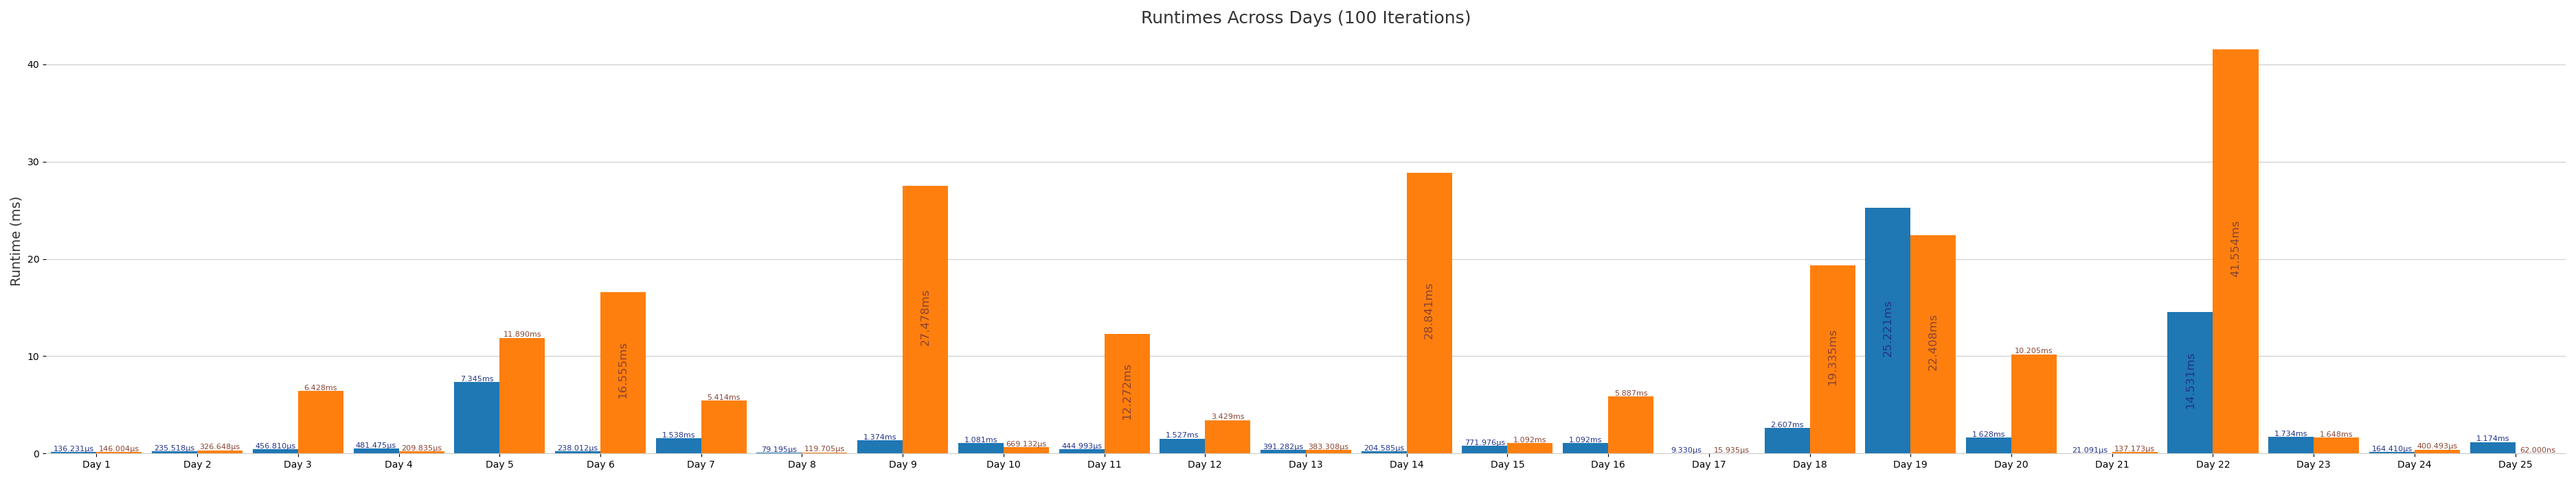
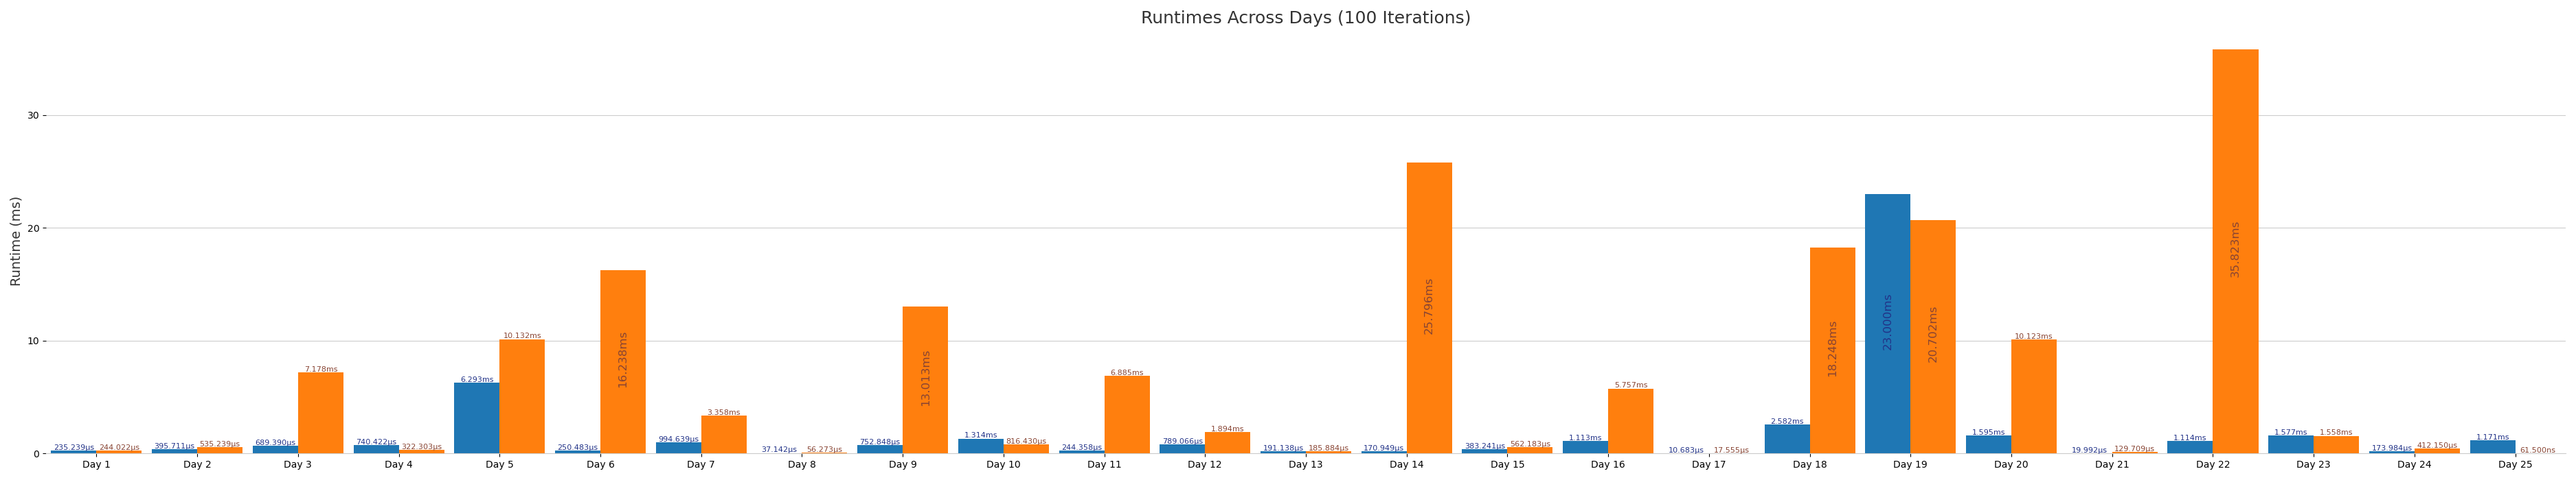
Day 22 🚀

diff --git a/day22/src/main.rs b/day22/src/main.rs
@@ -1,3 +1,4 @@
+use rayon::prelude::*;
 use utils::test_solutions;
 
 fn main() {
@@ -9,120 +10,95 @@ fn main() {
 /// Parses and turns the given input into a vector of numbers
 fn get_numbers(input: &str) -> Vec<u32> {
     input
-        .split("\n")
+        .lines()
         .map(|s| s.parse::<u32>().unwrap())
         .collect::<Vec<u32>>()
 }
 
-/// Calculates the sequence of numbers while putting the difference sequence of 4 into the cache...
-/// Annoying day
-fn cache_sequence(
-    mut num: u32,
-    input_idx: usize,
-    input_len: usize,
-    n: usize,
-    prev_four: &mut [i32; 4],
-    bool_cache: &mut [bool; 130320],
-    number_cache: &mut [u32; 130320],
-    highest_score: &mut u32,
-) {
-    let prev = num % 10;
+fn get_next(num: u32) -> u32 {
+    let mut num = num;
     num ^= num << 6;
     num &= 0xffffff;
     num ^= num >> 5;
     num ^= num << 11;
     num &= 0xffffff;
-    let secret = num % 10;
+    num
+}
 
-    prev_four[3] = prev_four[2];
-    prev_four[2] = prev_four[1];
-    prev_four[1] = prev_four[0];
-    prev_four[0] = secret as i32 - prev as i32;
+/// Calculates the sequence of numbers while putting the difference sequence of 4 into the cache...
+/// Annoying day
+fn cache_sequence(
+    bool_cache: &mut [bool; 130321],
+    number_cache: &mut [u32; 130321],
+    num: u32,
+    highest_number: &mut u32,
+) {
+    let num_0 = num; // 123456
+    let num_1 = get_next(num_0); // 15887950
+    let num_2 = get_next(num_1); // 16495136
+    let mut prev = get_next(num_2); // 527345
 
-    if 2000 - n >= 4 {
-        // Use base19 to base10 conversation to get the hash id (18, 18, 18, 18) -> 130320
-        let hash_id: usize = (prev_four[0] + 9) as usize * 19 * 19 * 19
-            + (prev_four[1] + 9) as usize * 19 * 19
-            + (prev_four[2] + 9) as usize * 19
-            + (prev_four[3] + 9) as usize;
+    let mut diff_0 = 9 + num_1 % 10 - num_0 % 10; // -3 + 9
+    let mut diff_1 = 9 + num_2 % 10 - num_1 % 10; // 6 + 9
+    let mut diff_2 = 9 + prev % 10 - num_2 % 10; // -1 + 9
+
+    for _ in 3..2000 {
+        let next = get_next(prev);
+        let secret = next % 10;
+        let diff_3 = 9 + secret - prev % 10;
+        prev = next;
+
+        let hash_id: usize = diff_0 as usize * 19 * 19 * 19
+            + diff_1 as usize * 19 * 19
+            + diff_2 as usize * 19
+            + diff_3 as usize;
+
+        diff_0 = diff_1;
+        diff_1 = diff_2;
+        diff_2 = diff_3;
 
         // If the hash id is not already in the current input cache, add it
-        if !bool_cache[hash_id] {
-            bool_cache[hash_id] = true;
+        if bool_cache[hash_id] {
+            continue;
+        }
+        bool_cache[hash_id] = true;
+        number_cache[hash_id] += secret;
 
-            if secret != 0 {
-                let cached_value = &mut number_cache[hash_id];
-                if *cached_value < u32::MAX {
-                    *cached_value += secret;
-
-                    if highest_score < cached_value {
-                        *highest_score = *cached_value;
-                    }
-                } else {
-                    number_cache[hash_id] = secret;
-                }
-            }
+        if number_cache[hash_id] > *highest_number {
+            *highest_number = number_cache[hash_id];
         }
     }
-
-    if n == 1 {
-        return;
-    }
-
-    cache_sequence(
-        num,
-        input_idx,
-        input_len,
-        n - 1,
-        prev_four,
-        bool_cache,
-        number_cache,
-        highest_score,
-    );
 }
 
 /* ------------------- Solutions ------------------- */
 
-#[allow(unused_variables)]
 fn first_part(input: &str) -> u64 {
     let numbers = get_numbers(input);
-    let mut last_score = 0;
-
-    for number in numbers {
-        let mut num = number;
-        for i in 0..2000 {
-            num ^= num << 6;
-            num &= 0xffffff;
-            num ^= num >> 5;
-            num ^= num << 11;
-            num &= 0xffffff;
-        }
-        last_score += num as u64;
-    }
-
-    last_score
+    numbers
+        .par_iter()
+        .map(|&number| {
+            let mut num = number;
+            for _ in 0..2000 {
+                num ^= num << 6;
+                num &= 0xffffff;
+                num ^= num >> 5;
+                num ^= num << 11;
+                num &= 0xffffff;
+            }
+            num as u64
+        })
+        .sum::<u64>()
 }
 
-#[allow(unused_variables)]
 fn second_part(input: &str) -> u32 {
     let numbers = get_numbers(input);
-    let highest_score: &mut u32 = &mut 0;
 
-    let input_len = numbers.len();
-    let mut number_cache: [u32; 130320] = [u32::MAX; 130320];
-    for (input_idx, number) in numbers.iter().enumerate() {
-        let mut bool_cache: [bool; 130320] = [false; 130320];
-        cache_sequence(
-            *number,
-            input_idx,
-            input_len,
-            2000,
-            &mut [0; 4],
-            &mut bool_cache,
-            &mut number_cache,
-            highest_score,
-        );
-    }
+    let highest_number = &mut 0;
+    let mut number_cache = [0; 130321];
+    numbers.iter().for_each(|&number| {
+        let mut bool_cache = [false; 130321];
+        cache_sequence(&mut bool_cache, &mut number_cache, number, highest_number);
+    });
 
-    *highest_score
+    *number_cache.iter().max().unwrap()
 }
